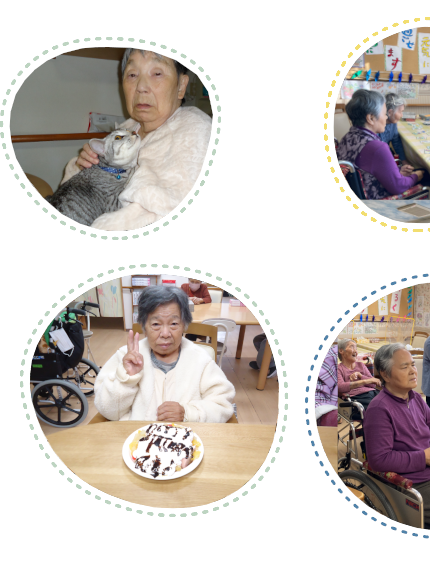
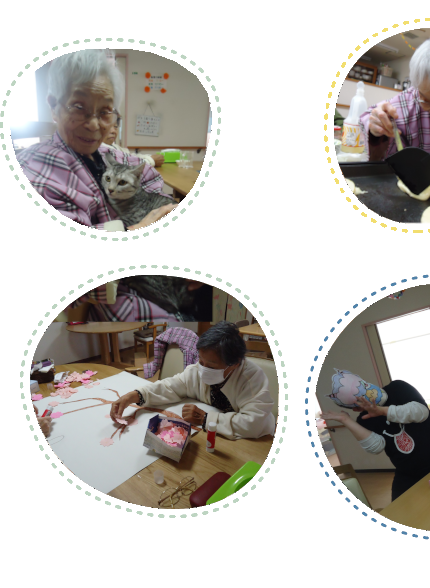
Update Slider 3gatsu

diff --git a/index.html b/index.html
@@ -430,28 +430,16 @@
                 <img src="images/slide4.png" alt="スライドショー">
             </div>
             <div>
-                <img src="images/slide1.png" alt="スライドショー">
+                <img src="images/slide5.png" alt="スライドショー">
             </div>
             <div>
-                <img src="images/slide2.png" alt="スライドショー">
+                <img src="images/slide6.png" alt="スライドショー">
             </div>
             <div>
-                <img src="images/slide3.png" alt="スライドショー">
+                <img src="images/slide7.png" alt="スライドショー">
             </div>
             <div>
-                <img src="images/slide4.png" alt="スライドショー">
-            </div>
-            <div>
-                <img src="images/slide1.png" alt="スライドショー">
-            </div>
-            <div>
-                <img src="images/slide2.png" alt="スライドショー">
-            </div>
-            <div>
-                <img src="images/slide3.png" alt="スライドショー">
-            </div>
-            <div>
-                <img src="images/slide4.png" alt="スライドショー">
+                <img src="images/slide8.png" alt="スライドショー">
             </div>
             <div>
                 <img src="images/slide1.png" alt="スライドショー">
@@ -466,6 +454,18 @@
                 <img src="images/slide4.png" alt="スライドショー">
             </div>
             <div>
+                <img src="images/slide5.png" alt="スライドショー">
+            </div>
+            <div>
+                <img src="images/slide6.png" alt="スライドショー">
+            </div>
+            <div>
+                <img src="images/slide7.png" alt="スライドショー">
+            </div>
+            <div>
+                <img src="images/slide8.png" alt="スライドショー">
+            </div>
+            <div>
                 <img src="images/slide1.png" alt="スライドショー">
             </div>
             <div>
@@ -477,6 +477,19 @@
             <div>
                 <img src="images/slide4.png" alt="スライドショー">
             </div>
+            <div>
+                <img src="images/slide5.png" alt="スライドショー">
+            </div>
+            <div>
+                <img src="images/slide6.png" alt="スライドショー">
+            </div>
+            <div>
+                <img src="images/slide7.png" alt="スライドショー">
+            </div>
+            <div>
+                <img src="images/slide8.png" alt="スライドショー">
+            </div>
+            
         </div>
         <!-- <div class="slides">
             <button class="slidbtn">
